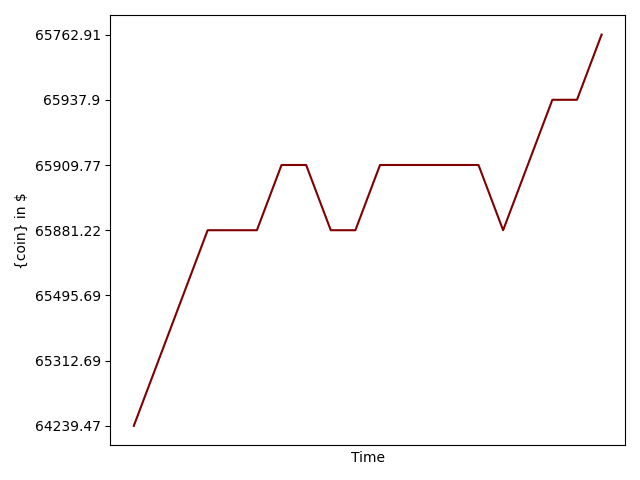
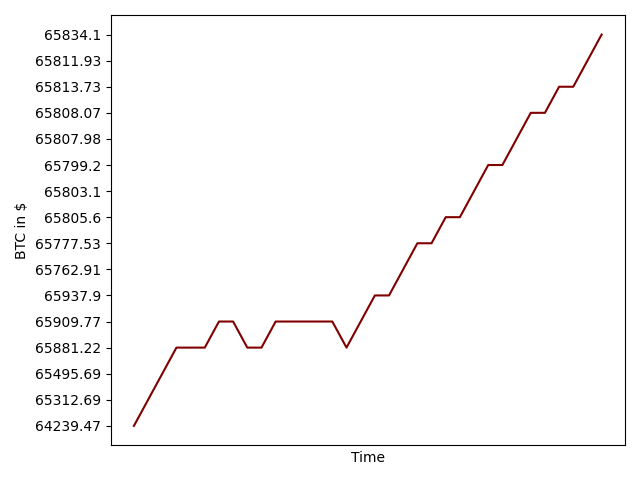
bruh i really have to fix the hard coded way i do this stuff lol

diff --git a/templates/main.html b/templates/main.html
@@ -18,9 +18,10 @@
 
 <div class="sidenav">
   <a href="/btc">{{ btc }}</a>
-  <a href="/doge">{{ doge}}</a>
+  <a href="/doge">{{ doge }}</a>
   <a href="/eth"> {{ eth }}</a>
   <a href="/ltc"> {{ ltc }}</a>
+  <a href="#">{{ usd }}</a>
   <hr/>
   <a href="/"> {{ total }}</a>
   <form method="post">

diff --git a/app.py b/app.py
@@ -14,9 +14,9 @@ def main():
     if request.method == "POST":
         print(cb_acc.balance())
         pf.plotpf()
-    bal = str.splitlines(cb_acc.balance())        
-    ltc,eth,doge,btc,total = bal # instead of this, will eventually turn into a split list
-    return render_template('main.html', btc=btc,doge=doge,eth=eth,ltc=ltc,total=total, imgsrc="static/portfolio.png")
+    bal = str.splitlines(cb_acc.balance())
+    ltc,eth,doge,usd,btc,total = bal # instead of this, will eventually turn into a split list
+    return render_template('main.html', btc=btc,doge=doge,eth=eth,ltc=ltc,usd=usd,total=total, imgsrc="static/portfolio.png")
 
 # crypto pages
 @app.route('/btc', methods=["GET", "POST"])
@@ -27,8 +27,8 @@ def btc():
         cb_acc.current_price(coin)
         pf.plotCoin(coin)
     bal = str.splitlines(cb_acc.balance())        
-    ltc,eth,doge,btc,total = bal # instead of this, will eventually turn into a split list
-    return render_template('main.html', btc=btc,doge=doge,eth=eth,ltc=ltc,total=total, imgsrc=f"static/{coin}.png")
+    ltc,eth,doge,usd,btc,total = bal # instead of this, will eventually turn into a split list
+    return render_template('main.html', btc=btc,doge=doge,eth=eth,ltc=ltc,usd=usd, total=total, imgsrc=f"static/{coin}.png")
 
 @app.route('/ltc', methods=["GET", "POST"])
 def ltc():
@@ -37,9 +37,10 @@ def ltc():
         print(cb_acc.balance())
         cb_acc.current_price(coin)
         pf.plotCoin(coin)
-    bal = str.splitlines(cb_acc.balance())        
-    ltc,eth,doge,btc,total = bal # instead of this, will eventually turn into a split list
-    return render_template('main.html', btc=btc,doge=doge,eth=eth,ltc=ltc,total=total, imgsrc=f"static/{coin}.png")
+    bal = str.splitlines(cb_acc.balance())
+    print(bal)   
+    ltc,eth,doge,usd,btc,total = bal # instead of this, will eventually turn into a split list
+    return render_template('main.html', btc=btc,doge=doge,eth=eth,ltc=ltc,usd=usd, total=total, imgsrc=f"static/{coin}.png")
 
 @app.route('/doge', methods=["GET", "POST"])
 def doge():
@@ -49,8 +50,8 @@ def doge():
         cb_acc.current_price(coin)
         pf.plotCoin(coin)
     bal = str.splitlines(cb_acc.balance())        
-    ltc,eth,doge,btc,total = bal # instead of this, will eventually turn into a split list
-    return render_template('main.html', btc=btc,doge=doge,eth=eth,ltc=ltc,total=total, imgsrc=f"static/{coin}.png")
+    ltc,eth,doge,usd,btc,total = bal # instead of this, will eventually turn into a split list
+    return render_template('main.html', btc=btc,doge=doge,eth=eth,ltc=ltc,usd=usd, total=total, imgsrc=f"static/{coin}.png")
 
 @app.route('/eth', methods=["GET", "POST"])
 def eth():
@@ -60,8 +61,8 @@ def eth():
         cb_acc.current_price(coin)
         pf.plotCoin(coin)
     bal = str.splitlines(cb_acc.balance())        
-    ltc,eth,doge,btc,total = bal # instead of this, will eventually turn into a split list
-    return render_template('main.html', btc=btc,doge=doge,eth=eth,ltc=ltc,total=total, imgsrc=f"static/{coin}.png")
+    ltc,eth,doge,usd,btc,total = bal # instead of this, will eventually turn into a split list
+    return render_template('main.html', btc=btc,doge=doge,eth=eth,ltc=ltc,usd=usd, total=total, imgsrc=f"static/{coin}.png")
 
 
 

diff --git a/wallet.py b/wallet.py
@@ -29,12 +29,6 @@ load_dotenv()
 # crypto
 CB_APIKey = os.environ.get('CB_APIKey', 3)
 CB_APISecret = os.environ.get('CB_APISecret', 3)
-
-btckey = os.environ.get('btckey', 3)
-dogekey = os.environ.get('dogekey', 3)
-ltckey = os.environ.get('ltckey', 3)
-ethkey = os.environ.get('ethkey', 3)
-
 # firebase
 FIREBASE = os.environ.get('FIREBASE', 3)
 FIREBASE_NAME = os.environ.get('FIREBASE_NAME', 3)

diff --git a/portfolio.py b/portfolio.py
@@ -24,7 +24,7 @@ class Portfolio:
         
     def plotCoin(self, coin):
         POT = self.crypto.child(f'{coin}/POT').get() # price over time
-        self.plot(POT, "Time", "{coin} in $", f"static/{coin}.png")
+        self.plot(POT, "Time", f"{coin} in $", f"static/{coin}.png")
         
         
     def plot(self, data, xlabel, ylabel, figname):
